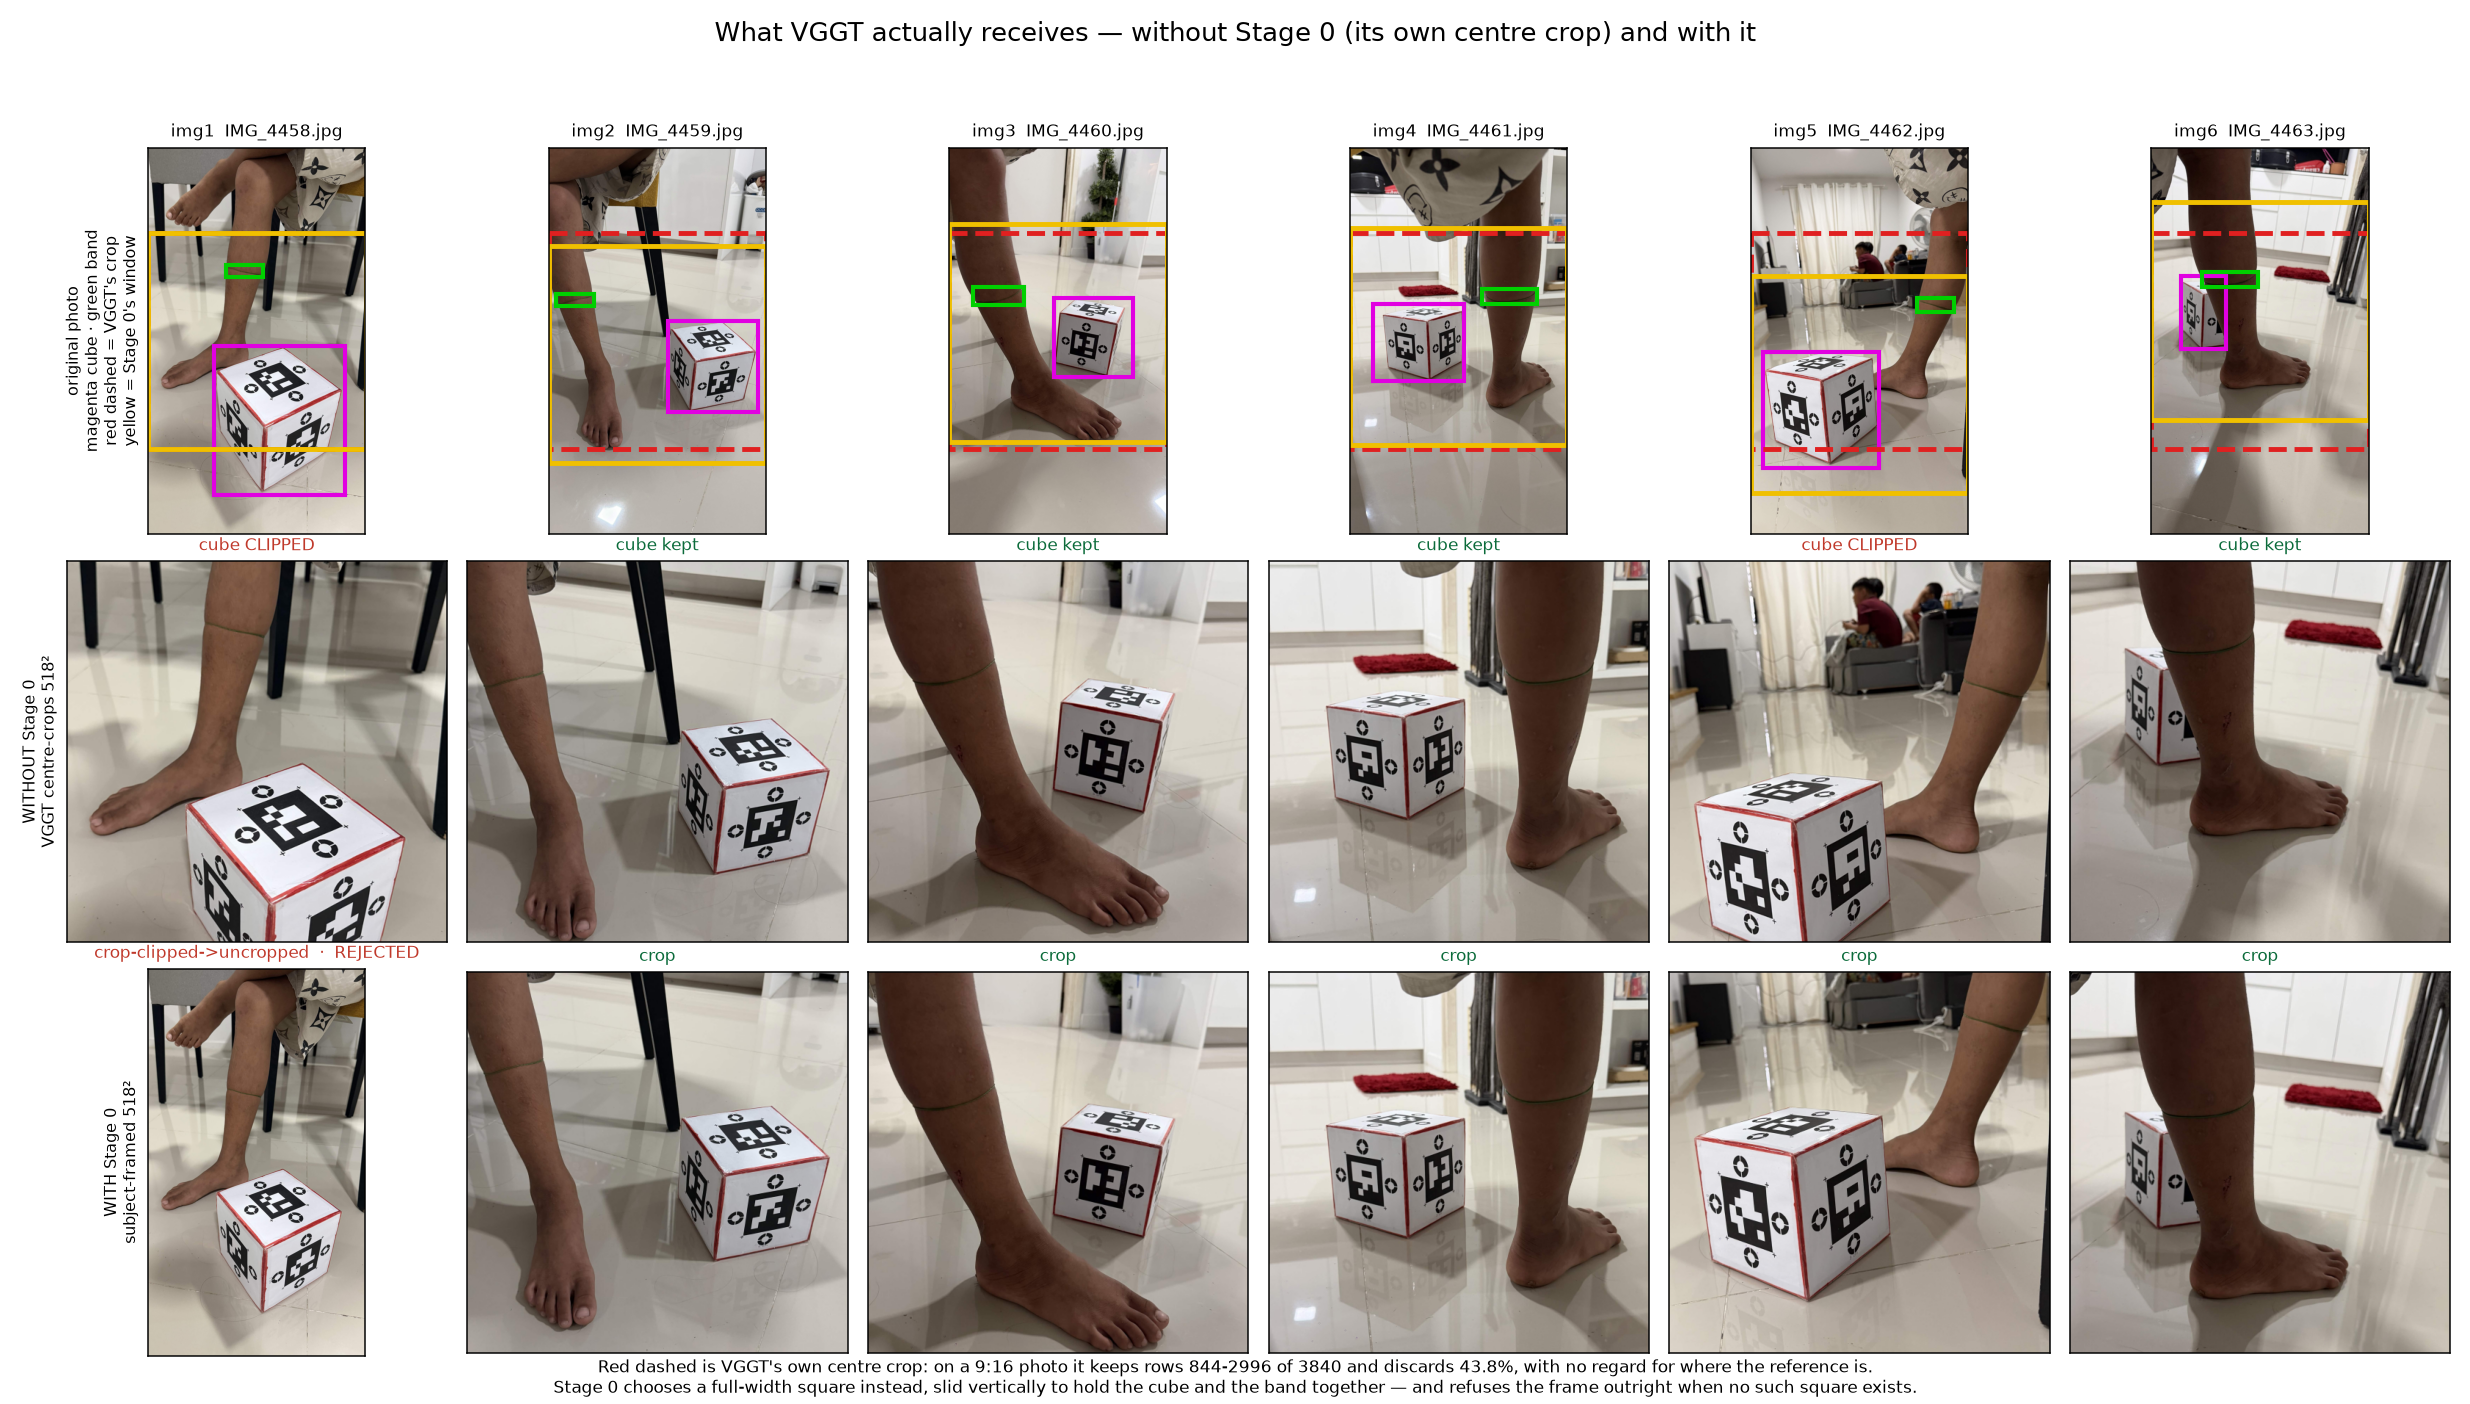
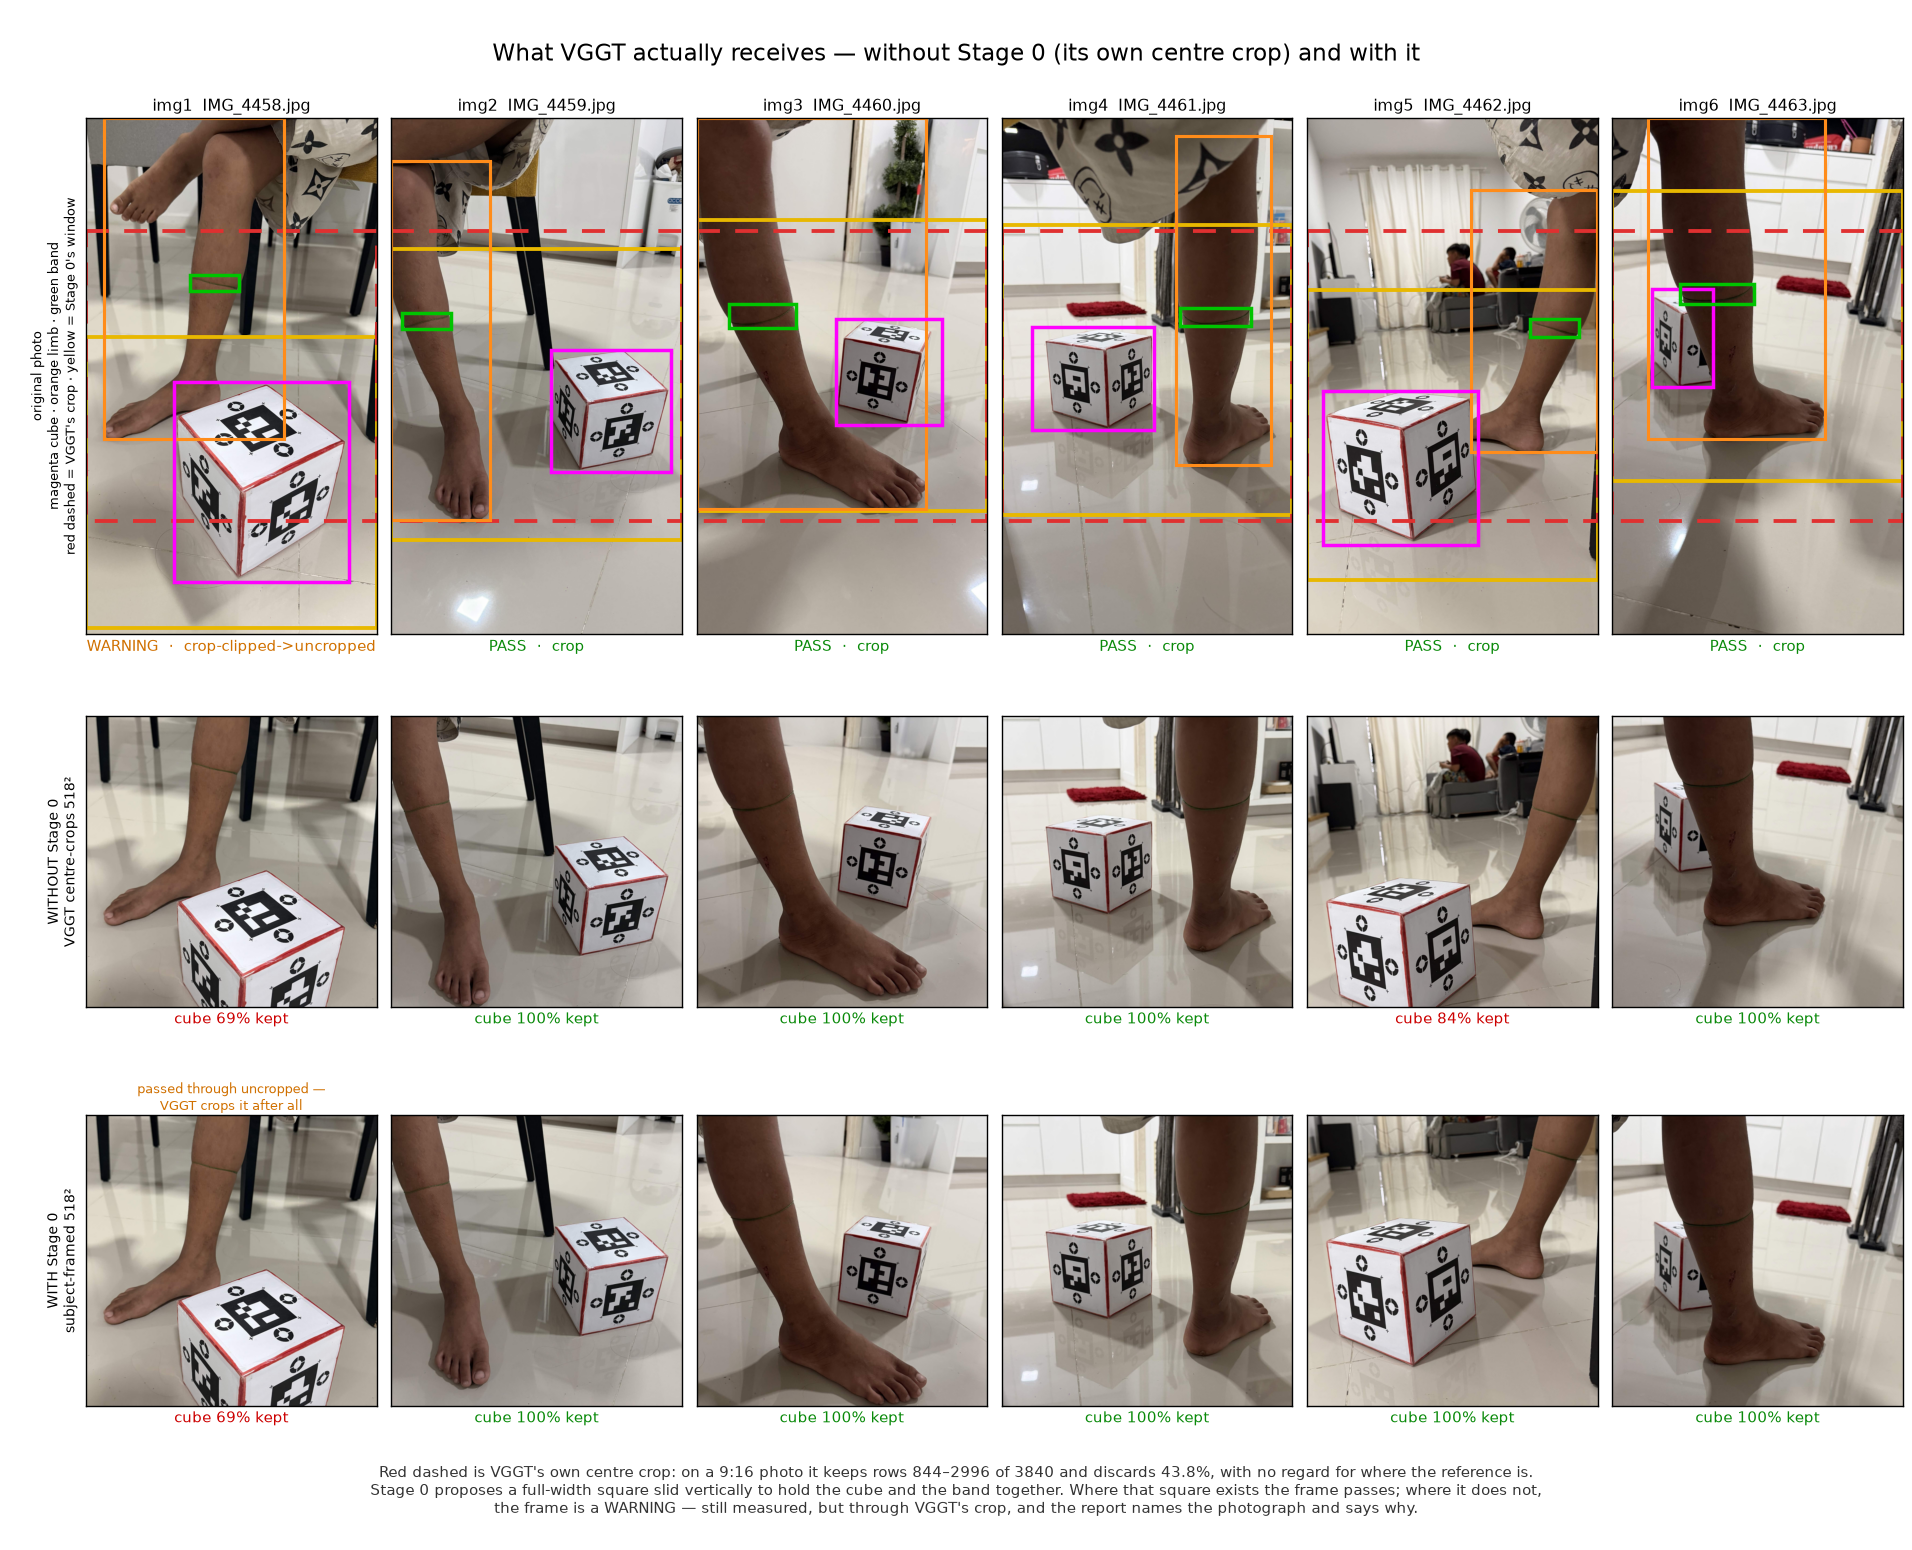
Redraw the Stage 0 figure, and stop claiming Stage 6 as an improvement
The Stage 0 comparison figure still showed the gate as it was before the three
verdicts: IMG_4458 marked REJECTED, with the caption saying no crop could hold
it. Both are now wrong. The frame is a warning, and the reason is more specific
than "no window fits" — a full-width square does hold the whole cube, but none
holds the cube and the marker band together, so the frame falls through to
VGGT's own crop and keeps 69% of the cube. Redrawn from a fresh Stage 0 run with
all four boxes the stage draws; the 69% and 84% coverage figures both reproduce.

Separately, the before/after tables credited the exact signed volume to this
tree. They should not have. `git diff main -- pipeline/stages/volume.py` is 618
insertions and 0 deletions, all of them comments: the executable code is
identical to main's. Its first tier has always been the exact signed volume, and
main reached the flood fill only because its meshes were open. The improvement
is upstream, in the mesh closing, and the tables now say so.

Removed a row claiming the output now names the volume method it used. main
printed that column too.

Corrected two before/after tables that recorded small_leg as unchanged at 5 of 6
frames. It is 6 of 6 with one warning, and no longer needs
--continue-on-rejected.

Claude-Session: https://claude.ai/code/session_01LXckYaKMQjskEmifuWgJTa

diff --git a/docs/experiments/rework_main_vs_current.md b/docs/experiments/rework_main_vs_current.md
@@ -33,11 +33,11 @@ cd -            && python stagerun.py 0-6 -i inputs/small_leg --name verify --co
 |---|---|---|
 | stages | 6 | 7, two of which stop for a human decision |
 | wall clock | **136.7 s** | **80 s** |
-| capture validation | none | Stage 0 gate — 5 of 6 frames accepted, 1 named for re-take |
+| capture validation | none | Stage 0 gate — 5 pass, 1 warning, 0 reject; all six measured, the weak one named |
 | marker colour | hardcoded khaki window | measured per capture |
 | reconstruction | Poisson | alpha shape, α chosen by watertightness |
 | **box mesh watertight** | **no** — after Stage 5 as well | **yes**, χ = 2 |
-| volume method | `warp + floodfill` approximation | exact signed volume |
+| volume method | `warp + floodfill` — the mesh was open | `watertight` — Stage 6 unchanged, its first tier now reachable |
 | limb volume | 1073.98 cm³ | 1081.94 cm³ |
 
 The headline is the watertight row, and it is not a detail. `main`'s reference
@@ -57,45 +57,57 @@ was. On this capture that clipped the cube's base in two frames of six.
 Current run:
 
 ```
-IMG_4458.jpg   REJECTED   [very crucial]  objects out of window
-IMG_4459..4463 ok         crop 2160px
-5 of 6 frames usable; marker colour learned RGB [44, 37, 16], ExG +14
+IMG_4458.jpg   WARN   [crucial]  cube out of window — VGGT will centre-crop instead
+IMG_4459..4463 PASS   crop 2160px
+STAGE 0 VERDICT: 5 pass, 1 warning, 0 reject  (of 6 submitted)
+marker colour learned RGB [44, 36, 15], excess-green +13
 ```
 
-The rejected frame is still written, uncropped, so it can be inspected — and
-`--continue-on-rejected` lets the run proceed with VGGT cropping that one itself.
+The stage answers with one of three verdicts rather than a yes or a no. **Pass**
+is a frame whose window holds the cube and the band together. **Warning** is a
+frame that window cannot serve — it is still written, uncropped, so VGGT crops it
+and the run proceeds, but the report names the photograph and says what it lost.
+**Reject** is kept for the cases nothing can be done with: no cube in the frame,
+or nothing recognisable at all. Only a reject stops the run.
 
 ### What VGGT actually receives
 
 ![stage 0 input comparison](stage0_vggt_input.png)
 
-Top row is the photograph with the reference cube in magenta, the marker band in
-green, VGGT's own centre crop as a red dashed band, and Stage 0's chosen window in
-yellow. Middle row is what VGGT gets **without** Stage 0 — produced by calling
-`load_and_preprocess_images(..., mode="crop")` directly, so it is the real input,
-not a mock-up. Bottom row is what it gets **with** Stage 0.
+Top row is the photograph carrying all four boxes the stage draws — the reference
+cube in magenta, the limb in orange, the marker band in green and Stage 0's chosen
+window in yellow — with VGGT's own centre crop added as a red dashed band for
+comparison. Middle row is what VGGT gets **without** Stage 0, produced by calling
+`load_and_preprocess_images(..., mode="crop")` directly, so it is the real input
+and not a mock-up. Bottom row is what it gets **with** Stage 0.
 
 How much of the reference cube survives each route:
 
-| frame | cube height (px) | VGGT's own crop keeps | Stage 0 keeps |
-|---|---|---|---|
-| IMG_4458 | 1487 | 69% | 69% — *rejected, no crop can hold it* |
-| IMG_4459 | 906 | 100% | 100% |
-| IMG_4460 | 787 | 100% | 100% |
-| IMG_4461 | 767 | 100% | 100% |
-| **IMG_4462** | 1150 | **84%** | **100%** |
-| IMG_4463 | 729 | 100% | 100% |
+| frame | cube height (px) | VGGT's own crop keeps | verdict | cube kept on the route taken |
+|---|---|---|---|---|
+| IMG_4458 | 1487 | 69% | **warning** | 69% — passed through uncropped |
+| IMG_4459 | 906 | 100% | pass | 100% |
+| IMG_4460 | 787 | 100% | pass | 100% |
+| IMG_4461 | 767 | 100% | pass | 100% |
+| **IMG_4462** | 1150 | **84%** | pass | **100%** |
+| IMG_4463 | 729 | 100% | pass | 100% |
 
 Two frames of six are where this matters. On **IMG_4462** VGGT's centre crop cuts
 16% off the cube — silently, since a truncated cube still reconstructs, it just
 reconstructs smaller, and the cube sets the scale for every number the run
 reports. Stage 0's window keeps all of it.
 
-On **IMG_4458** neither can help: the cube and the band are too far apart for any
-square the photo can provide. That is the case worth showing to a supervisor,
-because the old pipeline had no way to notice — it would have measured the capture
-and produced a confident number. The current one names the photograph and says
-why.
+**IMG_4458** is the warning case, and it is more specific than "no window fits".
+A full-width square *can* be placed to hold the whole cube — the cube is 1487 px
+tall in a 2160 px-wide frame, so it fits with room to spare. What does not fit is
+the cube and the marker band *together*: the band sits at y≈1171–1287 and the
+cube's base reaches y≈3453, 2.3 k pixels apart in a square only 2160 px on a
+side. Since `can_crop` requires the window to hold both, the frame falls through
+to VGGT's own crop, which keeps 69% of the cube. It is still measured, because a
+partly-visible cube in one frame of six is a weakness rather than a fatal flaw —
+but the run says so. That is the case worth showing to a supervisor: the old
+pipeline had no way to notice, and would have produced the same confident number
+with nothing written down.
 
 The middle row also shows the second, quieter benefit: Stage 0's crops fill the
 frame with the subject, where VGGT's centre crop wastes a third of the 518 pixels
@@ -183,7 +195,7 @@ Stages 0–5 fed it.
 
 | | `main` | current (Stage 6 = main's) |
 |---|---|---|
-| volume method | `warp + floodfill`, auto res 200/300 | exact signed volume |
+| volume method | `warp + floodfill`, auto res 200/300 | `watertight`, exact signed volume |
 | box reported | 18.98 × 19.49 × 13.64 cm | 19.18 × 19.47 × 14.09 cm |
 | box volume | 2744.00 cm³ | 2744.00 cm³ |
 | limb | 22.84 × 19.65 × 22.69 cm, 1073.98 cm³ | 22.34 × 19.09 × 22.82 cm, 1081.94 cm³ |

diff --git a/docs/updates.md b/docs/updates.md
@@ -24,7 +24,7 @@ until a person has confirmed where the subject ends.
 | marker colour | hardcoded khaki window | measured per capture |
 | reconstruction | Poisson, never closed | Poisson, **validated at χ = 2**, alpha shape as an automatic fallback |
 | reference mesh watertight | **no**, even after repair | **yes**, χ = 2 |
-| volume method | voxel flood fill | exact signed volume |
+| volume method | `warp+floodfill`, because the mesh never closed | `watertight` — the same Stage 6 code, now reachable |
 | where the cut happens | automatic, unreviewable | detected, then confirmed by a person |
 | wall clock | 136.7 s | **80 s** |
 | front end | none | browser app + GPU service |
@@ -39,8 +39,11 @@ reference cube is. Nothing checked what survived.
 
 **Now** Stage 0 (`pipeline/stages/prep.py`) locates the cube, the limb and the
 marker band in every frame, chooses a crop window that holds all of them, and
-**rejects the frame if no such window exists** — naming the photograph to re-take
-and why.
+returns one of three verdicts. **Pass** is a frame whose window exists and holds
+everything. **Warning** is a frame that could not be cropped that way but is
+still measurable through VGGT's own crop — it is used, and the report names it.
+**Reject** is a frame with no cube in it at all, or nothing recognisable; only a
+reject stops the run.
 
 ![what VGGT actually receives](experiments/stage0_vggt_input.png)
 
@@ -49,13 +52,14 @@ off the cube in `IMG_4462`. That is invisible: a truncated cube still
 reconstructs, it just reconstructs *smaller* — and the cube sets the scale for
 every number the run reports. A scale error from a clipped reference cannot be
 detected downstream, cannot be corrected, and looks exactly like a correct
-result. Stage 0's window keeps 100% of the cube on all five usable frames.
+result. Stage 0's window keeps 100% of the cube on all five frames it could crop,
+and on the sixth it says so instead of measuring it silently.
 
-| frame | cube height (px) | VGGT's own crop keeps | Stage 0 keeps |
-|---|---|---|---|
-| IMG_4458 | 1487 | 69% | 69% — *rejected; no crop can hold it* |
-| **IMG_4462** | 1150 | **84%** | **100%** |
-| the other four | — | 100% | 100% |
+| frame | cube height (px) | VGGT's own crop keeps | verdict and route | cube kept |
+|---|---|---|---|---|
+| IMG_4458 | 1487 | 69% | **warning** — a window holding the cube exists, but it leaves the marker band out, so the frame goes to VGGT uncropped | 69% |
+| **IMG_4462** | 1150 | **84%** | pass — Stage 0's own window | **100%** |
+| the other four | — | 100% | pass — Stage 0's own window | 100% |
 
 `IMG_4458` is the case worth showing: the cube and the band are too far apart for
 any square the photo can provide. `main` had no way to notice, and would have
@@ -194,7 +198,7 @@ contradict one of the first two.
 
 ---
 
-## 5. The reconstructed surface closes, and the volume is exact
+## 5. The reconstructed surface closes, which is what makes the volume exact
 
 **`main`** used Poisson. Its reference mesh was **not watertight**, and PyMeshFix
 adding 30,739 faces did not close it. An open mesh has no signed volume, so
@@ -205,6 +209,11 @@ no error signal when it does.
 takes the **smallest α that is both watertight and has Euler characteristic 2** —
 the tightest surface that is still a single closed solid.
 
+Note what did **not** change: Stage 6 is `main`'s code, byte for byte. Its first
+tier has always been the exact signed volume, and `main` never reached it because
+its meshes were open. The improvement is upstream — the mesh closes, so `main`'s
+own best branch is the one that now runs.
+
 ![alpha ladder](experiments/alpha_ladder.png)
 
 | | `main` | now |
@@ -213,7 +222,7 @@ the tightest surface that is still a single closed solid.
 | reference mesh | 311,821 faces | 16,106 faces |
 | watertight | **no** | **yes** |
 | after repair | 342,560 faces, **still not watertight** | unchanged, already closed |
-| volume | `warp + floodfill` | exact signed volume |
+| volume | `warp + floodfill` | `watertight`, exact signed volume |
 
 > **Updated 2026-08-23.** This section originally argued for alpha shape over
 > Poisson outright. The Poisson column below was measured against a Stage 5 that
@@ -385,7 +394,6 @@ Some properties worth knowing:
 | change | why it is an improvement |
 |---|---|
 | **Watertightness verified with `trimesh.load(process=False)`** | the default merge welds PyMeshFix's intentional seam duplicates and reports an *open* mesh as watertight. The check was passing on meshes that were not closed |
-| **Volume falls through four tiers, and tiers 2-4 warn loudly** | a non-watertight mesh once returned 0.000825 instead of 0.0119 because the flood fill escaped through a hole. Now the output says which method produced it |
 | **Marker detection restricted to the upper 60% of the limb's span** | the foot is wider than the calf; searching the whole span let the widest cross-section pull the plane down the leg |
 | **The alpha ladder reports its fallback** | when no rung is both closed and χ = 2 it ranks candidates and says so, instead of silently returning something open |
 | **`--seed` seeds `random`, NumPy, PyTorch and Open3D** | Stage 3 is reproducible bit-for-bit, which is what makes an A/B of one constant meaningful |

diff --git a/docs/experiments.md b/docs/experiments.md
@@ -1242,7 +1242,7 @@ have refused every band-free upload.
 
 | capture | before | after |
 |---|---|---|
-| `inputs/small_leg` | 5 of 6 usable, colour RGB [44,37,16] | **unchanged** |
+| `inputs/small_leg` | 5 of 6 usable, colour RGB [44,37,16] | **6 of 6 used** — `IMG_4458` is now a warning rather than a rejection, so no `--continue-on-rejected` is needed; same learned colour, same downstream numbers |
 | `inputs/short_leg` | 1 of 8, run refused | **8 of 8**, colour correctly discarded |
 | `inputs/est_325` | 0 of 8, all unreadable | **8 of 8**, colour correctly discarded |
 

diff --git a/docs/progress.md b/docs/progress.md
@@ -2194,7 +2194,7 @@ a genuine absence is unrecoverable.
 
 | capture | before | after |
 |---|---|---|
-| `small_leg` | 5 of 6 usable | **unchanged**, same learned colour |
+| `small_leg` | 5 of 6 usable, 1 rejected | **6 of 6 used, 1 warning** — `IMG_4458` no longer needs `--continue-on-rejected`; same learned colour, same downstream numbers |
 | `short_leg` | 1 of 8, run refused | **8 of 8**, spurious colour discarded |
 | `est_325` | 0 of 8, all unreadable | **8 of 8**, correctly finds no band |
 
